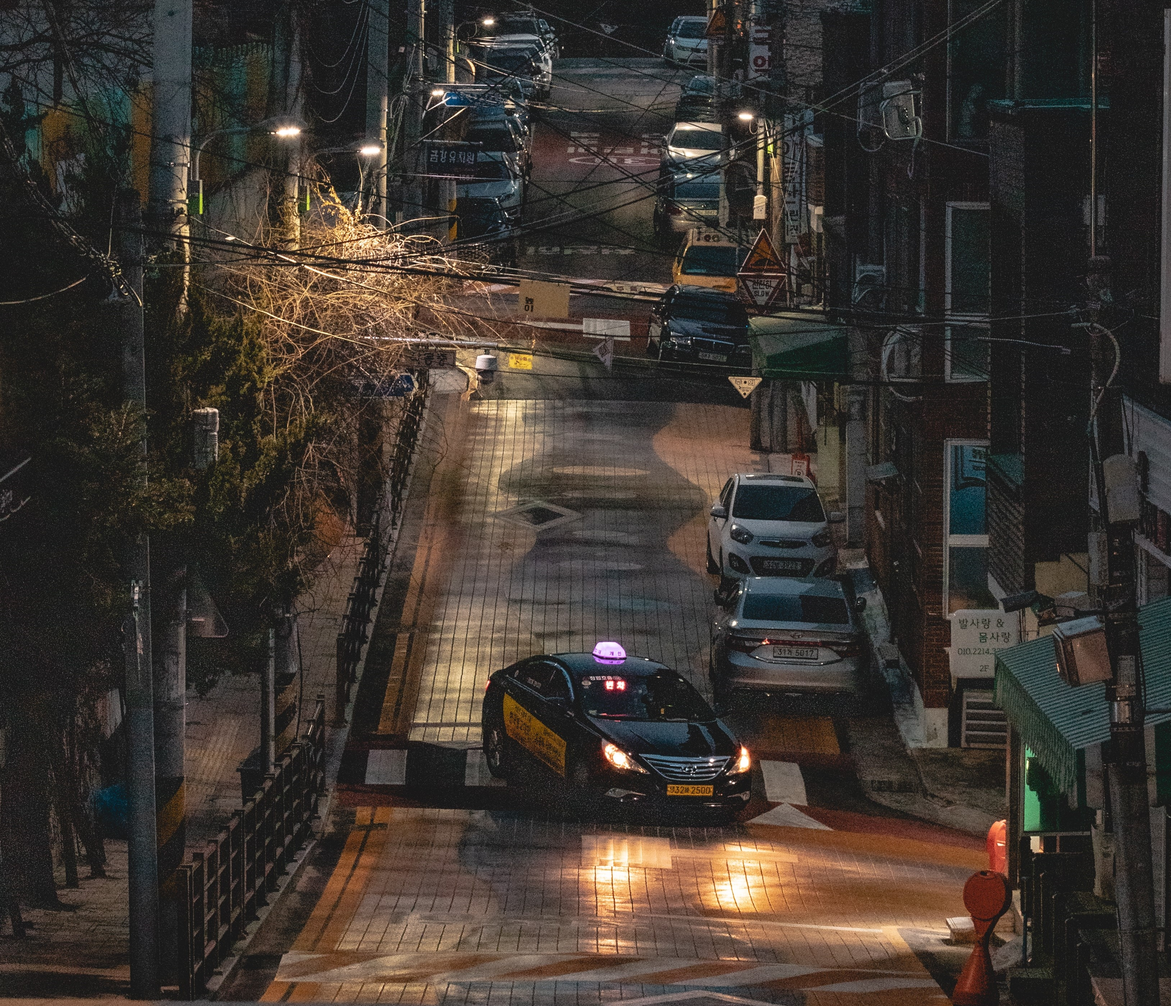
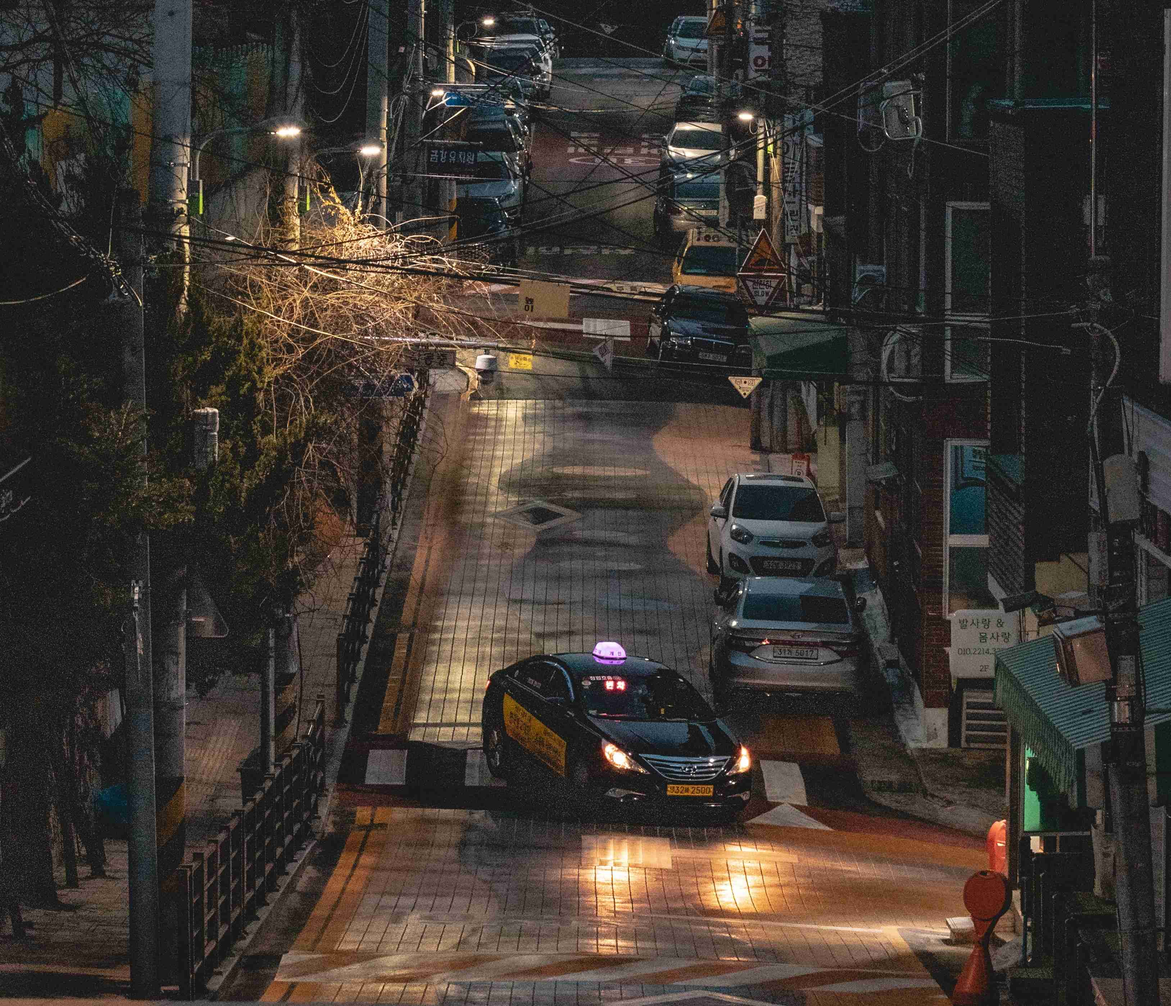
image size modifed

Changed region(s): [[0.1862, 0.1556, 0.4034, 0.3734], [0.4344, 0.3423, 0.4654, 0.3734]]

diff --git a/ObjectDetection.html b/ObjectDetection.html
@@ -192,7 +192,7 @@
                 The relevant materials are as follows.
                 
                 <div class="feature col py-2">
-                    <img class="img1" src="./resources/images/hwagok1.png" alt="alleyway-img" style="width: 60%;">
+                    <img class="img1" src="./resources/images/hwagok1.jpg" alt="alleyway-img" style="width: 60%;">
                     <p>
                         <b>Figure5.</b> Hwagok 1-dong Living Road Area (alleyway) Accident Location Visualization Data <br>
                         <a href="./resources/objectDetection/accident.html" target="_blank"><b>Accident GIS</b></a>

diff --git a/index.html b/index.html
@@ -60,7 +60,7 @@
         </ul>
       </div>
     </nav>
-    <img class="mainImg" src="./resources/images/index.png" alt="home">
+    <img class="mainImg" src="./resources/images/index.jpg" alt="home">
   </header>
 
   <main>
